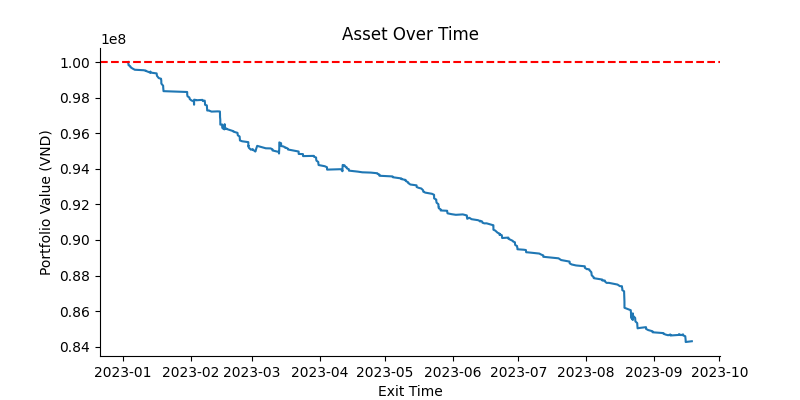
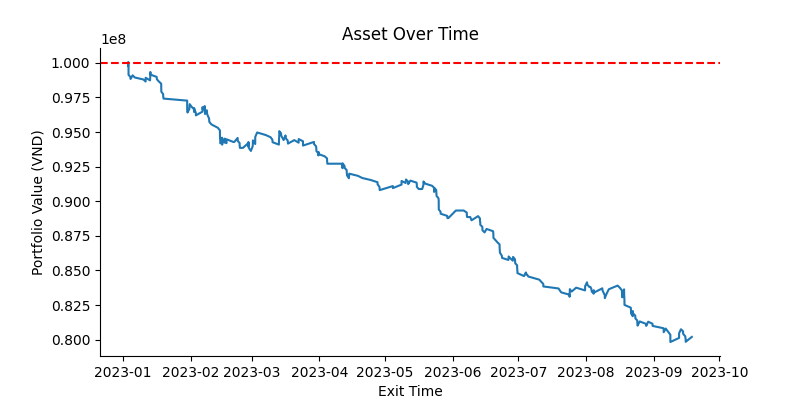
update logic for easy reproducing

diff --git a/src/data_processing.py b/src/data_processing.py
@@ -5,6 +5,7 @@ import psycopg
 import json
 import pprint
 import mplfinance as mpf
+import argparse
 
 from typing import List
 from matplotlib import pyplot as plt
@@ -13,10 +14,20 @@ import matplotlib.pyplot as plt
 
 df = pd.read_csv('src/ticks.csv', parse_dates=['datetime'])
 dataset = list(df.itertuples(index=False, name=None))
-with open('src/params.json', 'r') as pf:
-    params = json.load(pf)
-time_frame = params.get('time_frame', 1)            # default to 1 minute if not set
-resample_interval = f'{time_frame}T'  
+parser = argparse.ArgumentParser(description='Flag for data processing')
+parser.add_argument('--params', action='store_true', help='Use external params')
+args = parser.parse_args()
+if args.params:
+    with open('src/params.json', 'r') as pf:
+        params = json.load(pf)
+    time_frame = params.get('time_frame', 1)            # default to 1 minute if not set
+    sma_window = params.get('sma_window', 50)
+    
+else:
+    time_frame = 1                                     # default to 1 minute if not set
+    sma_window = 50                                   # default to 50 if not set
+    
+resample_interval = f'{time_frame}min'  
 # Sort dataset by ticker, then by datetime
 dataset.sort(key=lambda x: (x[1], x[0]))
 # Devide data into in-sample and out-sample
@@ -93,9 +104,6 @@ out_sample_candle_ohlc.set_index('datetime', inplace=True)
        # title=" Out sample data VN30F2311 Candlestick Chart (1m)", ylabel="Price")
 
 # --- Prepare Data ---
-with open('src/params.json', 'r') as pf:
-    params = json.load(pf)
-sma_window = params.get('sma_window', 50)
 # Assume in_sample_candle_ohlc is a DataFrame with a DateTimeIndex.
 df = in_sample_candle_ohlc.copy()
 df['SMA'] = df['close'].rolling(window=sma_window, min_periods=sma_window).mean()

diff --git a/src/backtest.py b/src/backtest.py
@@ -74,17 +74,23 @@ def close_all_positions(exit_price, exit_time):
         
 # --- Main Script ---
 if __name__ == "__main__":
-    with open('src/params.json', 'r') as pf:
-        params = json.load(pf)
-    take_profit = params.get('take_profit', 3)   # default 3 points if not specified
-    stop_loss = params.get('stop_loss', -1)
-    time_frame = params.get('time_frame', 1)  # default 1 minute if not present
-    time_step = pd.Timedelta(minutes=time_frame)
     # Parse command-line arguments
     parser = argparse.ArgumentParser(description="Backtesting script with input JSON file.")
     parser.add_argument("input_file", type=str, help="Path to the input JSON file (e.g., src/in-sample.json)")
     parser.add_argument("--log", action="store_true", help="Log the trade details")
+    parser.add_argument("--params", action="store_true", help="Use external params")
     args = parser.parse_args()
+    if args.params:
+        with open('src/params.json', 'r') as pf:
+            params = json.load(pf)
+        take_profit = params.get('take_profit', 3)   # default 3 points if not specified
+        stop_loss = params.get('stop_loss', -1)
+        time_frame = params.get('time_frame', 1)  # default 1 minute if not present
+    else:
+        take_profit = 3
+        stop_loss = -1
+        time_frame = 1
+    time_step = pd.Timedelta(minutes=time_frame)
 
     # Load df_list back from the JSON file
     with open("src/" + args.input_file, 'r') as f:

diff --git a/README.md b/README.md
@@ -123,6 +123,8 @@ Run the following command for data processing pipeline:
 ```
 python src/data_processing.py
 ```
+An optional flag `--params` can be added for using the defined parameters in `src/params.json`. For now, we do not add this flag so that the program will run on the initial parameters.
+
 The data is stored with the following format:	
 ```
 datetime                   tickersymbol   price
@@ -162,7 +164,7 @@ The configurations for backtesting are also the ones for optimization, which are
 {
     "sma_window": 50,
     "take_profit": 3,
-    "stop_loss": 1,
+    "stop_loss": -1,
     "time_frame": 1
 }
 ```
@@ -176,6 +178,7 @@ Run the in-sample backtesting with the following command:
 ```
 python src/backtest.py in-sample.json
 ```
+An optional flag `--params` can be added for using the defined parameters in `src/params.json`. For now, we do not add this flag so that the program will run on the initial parameters.
 ### In-sample Backtesting Result
 To get the result, run the following command:
 ```
@@ -183,12 +186,12 @@ python src/evaluate.py
 ```
 The initial results are as follow:
 - Initial Capital: 100'000'000 VND
-- Final Capital: 84'299'000.00000012 VND
-- Total Profit: -15'700'999.999999883 VND
+- Final Capital: 80'192'999.99999996 VND
+- Total Profit: -19'807'000.000000045 VND
 - Asset Over Time: ![](image2.png)
-- Holding Period Return (HPR): -15.70%
-- Maximum Drawdown (MDD): 15.76%
-- Daily-based Sharpe Ratio: -8.795042310274725
+- Holding Period Return (HPR): -19.81%
+- Maximum Drawdown (MDD): 20.23%
+- Daily-based Sharpe Ratio: -4.951047135793618
 
 ## Optimization
 * **Description:** We will randomly generate different sets of parameters and run the data processing, backtesting, and evaluation sequentially. We will try to find the set that results in highest HPR.
@@ -197,7 +200,7 @@ The initial results are as follow:
 {
     "sma_window": 50,
     "take_profit": 3,
-    "stop_loss": 1,
+    "stop_loss": -1,
     "time_frame": 1
 }
 ```
@@ -212,6 +215,7 @@ Followings are the range for random generating:
 python src/optimize.py --seed 12345
 ```
 12345 is the random seed we used for generating parameters, you can specify another number.
+
 This process will take about 1-2 hours to finish on a standard laptop. We have already adjust the parameters to the most optimal set as we run the optimization in `src/params.json`.
 ### Optimization Result
 ![](image5.png)
@@ -224,10 +228,16 @@ After optimization, we put the best set of parameters to `src/params.json`.
     "time_frame": 3
 }
 ```
-After that, re-run the data processing and backtesting on in-sample data:
+After that, re-run the data processing and backtesting on in-sample data with the following 2 commands:
 ```
-python src/data_processing.py
-python src/backtest.py in-sample.json
+python src/data_processing.py --params
+python src/backtest.py in-sample.json --params
+```
+This time, we add the flag for the programs to run on the optimized parameters.
+
+To get the result, run the following command:
+```
+python src/evaluate.py
 ```
 The results after optimizing are as follow:
 - Initial Capital: 100'000'000 VND
@@ -242,8 +252,9 @@ The results after optimizing are as follow:
 * **Data:** Out-sample dataset (`out-sample.json`).
 Run the out-sample backtesting with the following command:
 ```
-python src/backtest.py out-sample.json
+python src/backtest.py out-sample.json --params
 ```
+We also add the flag here to run the out-sample backtesting on the optimized parameters.
 ### Out-sample Backtesting Result
 To get the result, run the following command:
 ```
